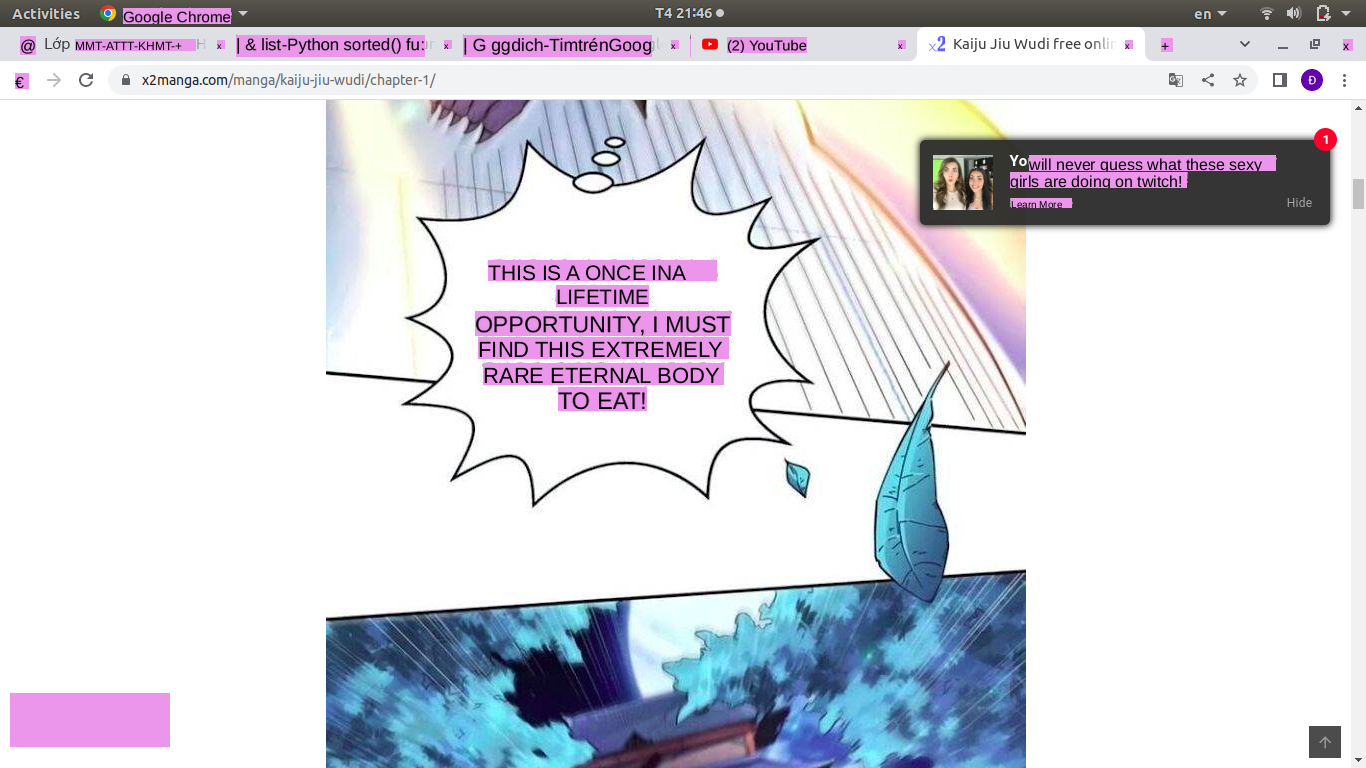
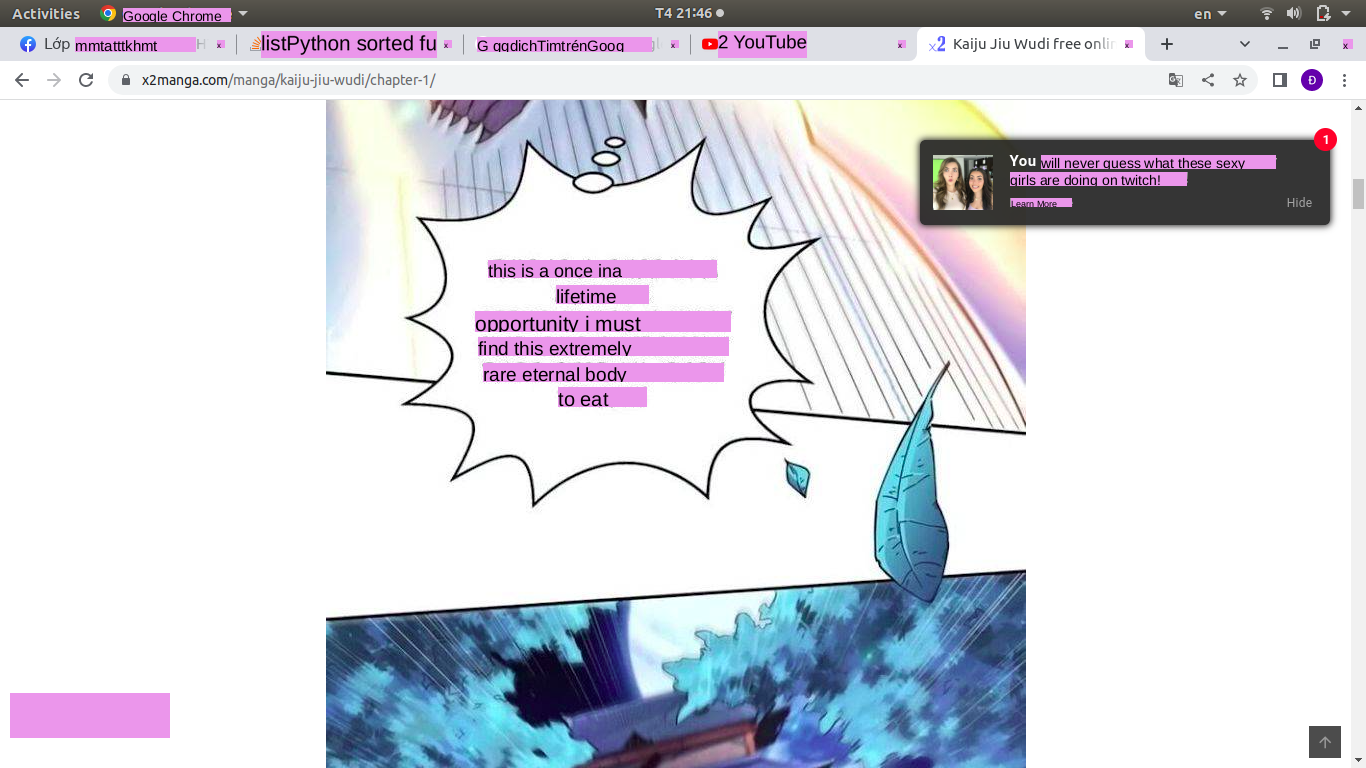
update

diff --git a/new.py b/new.py
@@ -57,11 +57,12 @@ class Group(Box):
                     break
             if not inserted:
                 lines.append(Line(word))
-        self.updateLine(lines)
+        # self.updateLine(lines)
         return lines
 
     def sortWords(self):
         self.words = sorted(self.words, key=lambda k: (k.stPoint[0]))
+
     def updateLine(self, lines):
         for line in lines:
             line.enPoint[1] += line.h * 0.2
@@ -145,15 +146,15 @@ class Line(Box):
         self.epH = self.h * self.H_NOUN
         self.text += ' ... ' + word.text
 
-    def getRect(self) -> List:
-        x = self.stPoint[0]
-        y = int(self.stPoint[1] - (self.epY/2 
-                                    if(self.stPoint[1] - self.epY/2 >= 0) 
-                                    else 0))
-        endX = self.w
-        endY = self.h + int(self.epY/1.5)
+    # def getRect(self) -> List:
+    #     x = self.stPoint[0]
+    #     y = int(self.stPoint[1] - (self.epY/2 
+    #                                 if(self.stPoint[1] - self.epY/2 >= 0) 
+    #                                 else 0))
+    #     endX = self.w
+    #     endY = self.h + int(self.epY/1.5)
 
-        return [x, y, endX, endY]
+    #     return [x, y, endX, endY]
 
 class Paragraph:
     def __init__(self, line:Line) -> None:
@@ -243,6 +244,12 @@ def main(imagePath, savePath):
     imgData = pytesseract.image_to_data(img, lang='eng', output_type=Output.DICT)
     cImgData = getCImgData(img, savePath)
     words = getWords(imgData, cImgData, img)
+    # for word in words:
+    #     cv2.putText(img, word.text, word.stPoint, 1, 1, (0, 255, 0))
+    #     cv2.rectangle(img, word.stPoint, word.enPoint, (40, 40, 100), 1)
+     
+    # cv2.imwrite(savePath, img)
+    # return 0
     groups = getGroups(img)
     # for group in groups:
     #     x, y = group.stPoint
@@ -252,24 +259,20 @@ def main(imagePath, savePath):
     #     print(text)
     # return 0
     # print(len(lines))
-    # for word in words:
-    #     cv2.putText(img, word.text, word.stPoint, 1, 1, (0, 255, 0))
-    #     cv2.rectangle(img, word.stPoint, word.enPoint, (40, 40, 100), 1)
-     
-    # cv2.imwrite(savePath, img)
-    # return 0
+
 
     insertWordTGroup(words, groups)
     lines = getLines(groups)
 
     outputImg = Image.open(imagePath).convert("RGB")
     for line in lines:
-        draw(outputImg, line)
-    outputImg.save(savePath)
-    return 0
+        if line.text.isupper():
+            line.text =  line.text.lower()
+
 
     paragraphs = getParagraphs(lines)
 
+   
     with concurrent.futures.ProcessPoolExecutor(max_workers=2) as executor:
         futureDraw = {executor.submit(transText,  id, paragraphs[id].getText()): id for id in range(len(paragraphs))}
         for future in concurrent.futures.as_completed(futureDraw):
@@ -303,11 +306,14 @@ def getWords(imgData, cImgData, img):
         x, y = imgData['left'][i], imgData['top'][i]
         w, h = imgData['width'][i], imgData['height'][i]
         text = imgData['text'][i]
+        text = ''.join(e for e in text if e.isalnum())
+
         conf = int(imgData['conf'][i])
         if (int(imgData['conf'][i]) >= 50
             and not imgData['text'][i].isspace()
             and w < img.shape[1]
             and h < img.shape[0]
+            and len(text) > 0
         ):
             nWords.append(Word([x, y, w, h], 0, text, conf))
 
@@ -373,11 +379,17 @@ def getContrastColor(rbg):
     return [255-rbg[0], 255-rbg[1], 255-rbg[2]]
 
 def getContrastImg(img):
-    contrastImg = img.copy()
+
+    contrastImg =255 - img.copy()
+    return contrastImg
+    
+
+def gcontrastImg(contrastImg):
+    l = len(contrastImg[0])
     for y in range(len(contrastImg)):
-        for x in range(len(contrastImg[y])):
+        for x in range(l):
             contrastImg[y][x] = getContrastColor(contrastImg[y][x])
-    return contrastImg    
+    return contrastImg   
 
 
 def getGroups(img):
@@ -512,7 +524,6 @@ def transText(id, text) -> None:
             textLines[i] = textLines[i][1:]
     return id, textLines
 
-# main('images/16.png', 'output/t.jpg')
 main('images/1.png', 'output/rect_1.jpg')
 main('images/2.png', 'output/rect_2.png')
 main('images/3.png', 'output/rect_3.png')
@@ -532,3 +543,12 @@ main('images/15.png', 'output/rect_15.png')
 main('images/16.png', 'output/rect_16.png')
 main('images/17.png', 'output/rect_17.png')
 main('images/18.png', 'output/rect_18.png')
+# tuan anh 
+# minh chien
+# anh duc 
+# duc hai 
+# khuong 
+# kien 
+# quoc nam 
+# van tin 
+# anh tuan 
